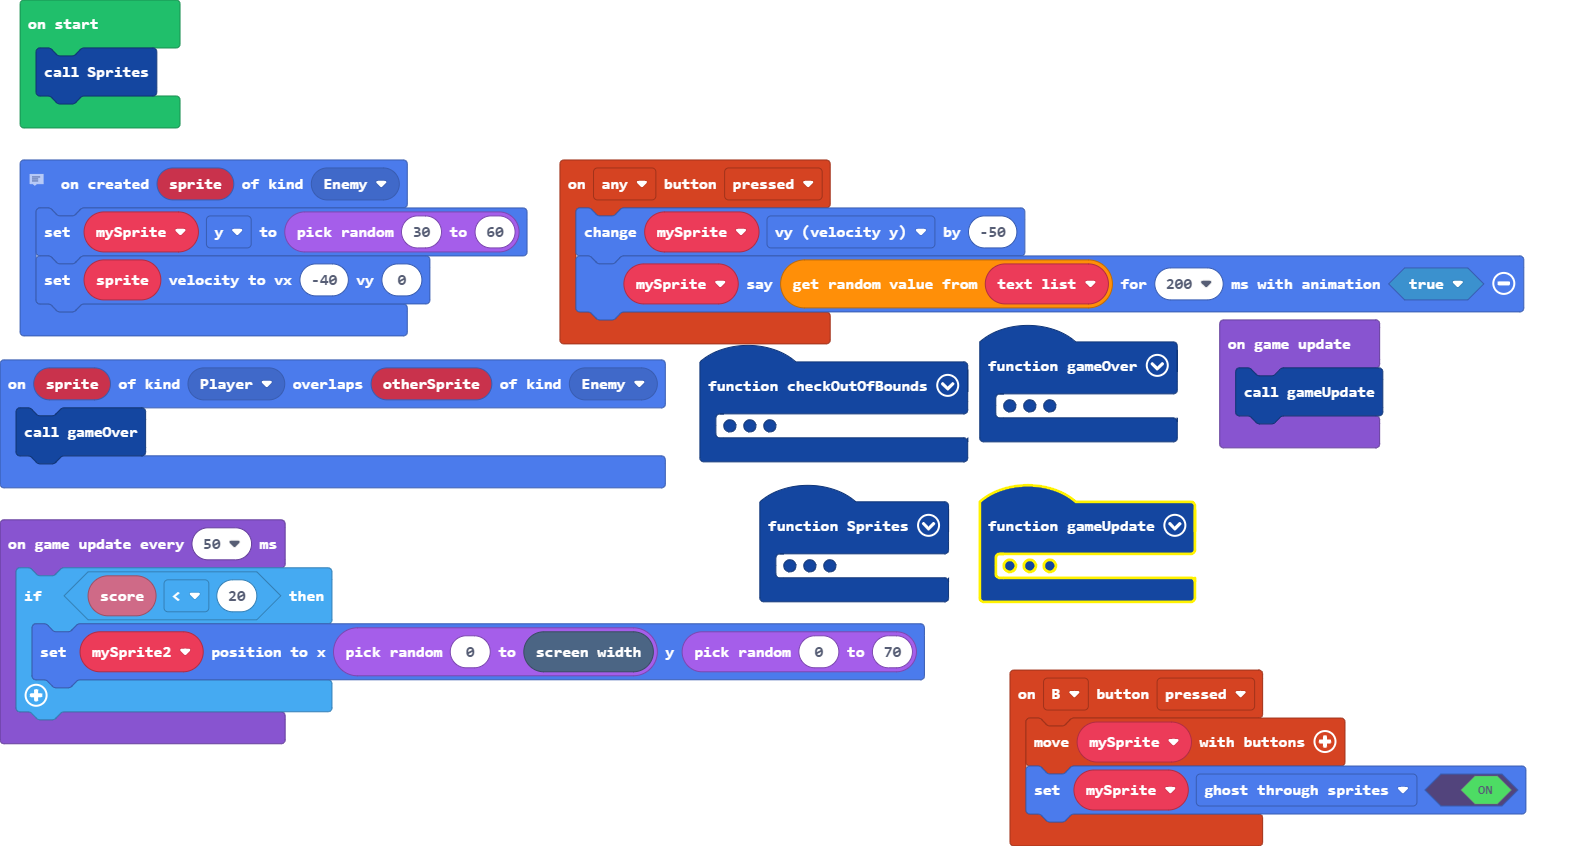
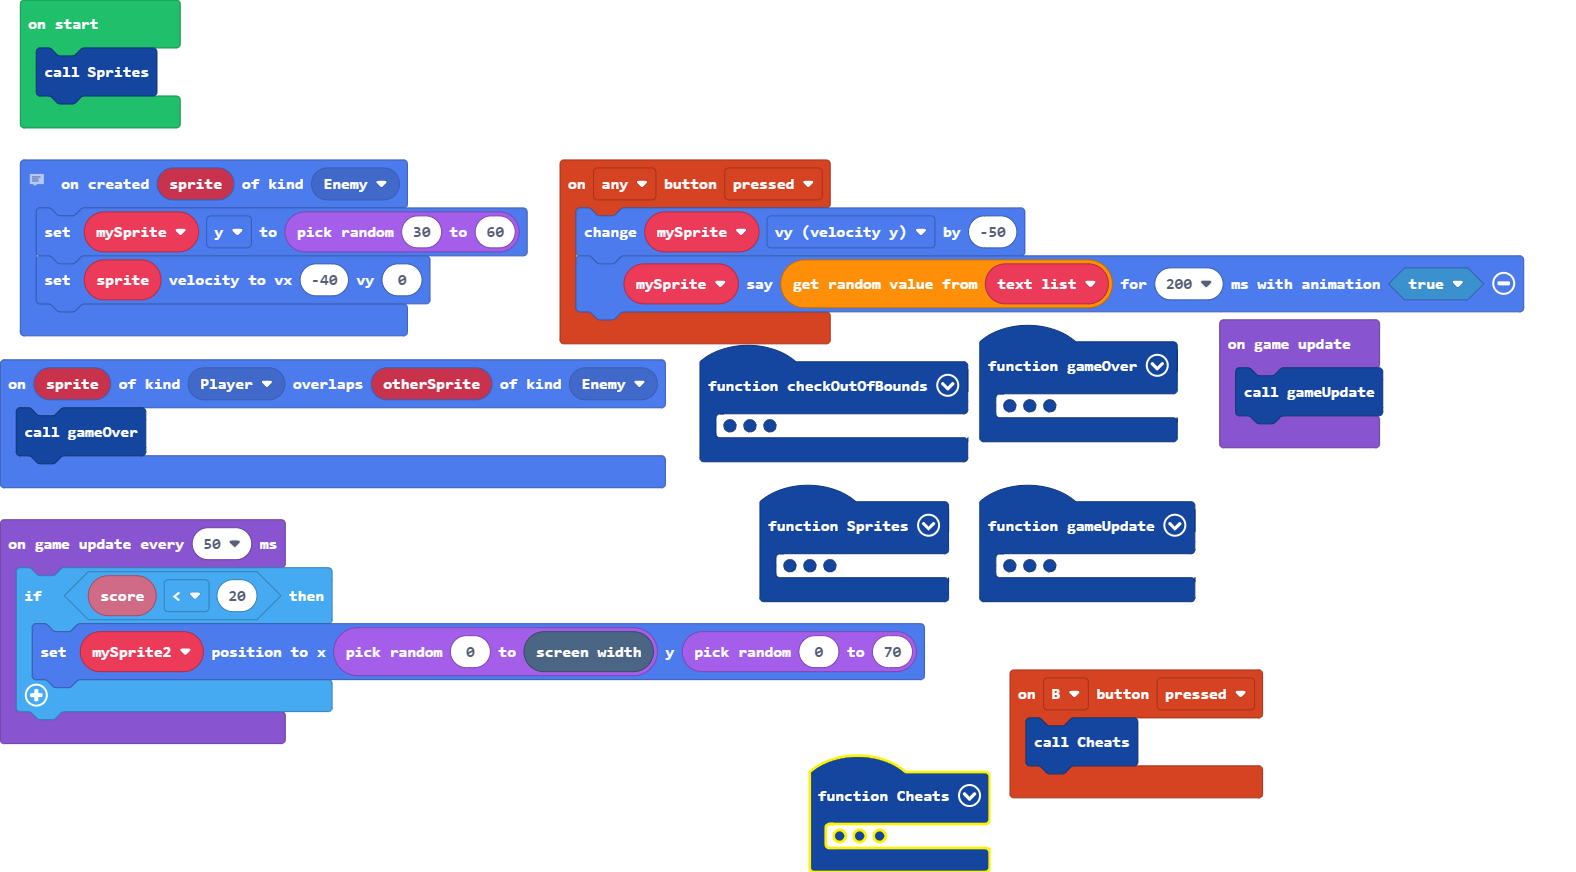
Update main.blocks, main.ts

Changed region(s): [[0.0, 0.1844, 0.9638, 0.8913], [0.4975, 0.7683, 0.9949, 1.0], [0.0, 0.0307, 0.1244, 0.1537]]

diff --git a/main.ts b/main.ts
@@ -42,9 +42,12 @@ sprites.onCreated(SpriteKind.Enemy, function (sprite) {
     mySprite.y = randint(30, 60)
     sprite.setVelocity(-40, 0)
 })
-controller.B.onEvent(ControllerButtonEvent.Pressed, function () {
+function Cheats () {
     controller.moveSprite(mySprite)
     mySprite.setFlag(SpriteFlag.GhostThroughSprites, true)
+}
+controller.B.onEvent(ControllerButtonEvent.Pressed, function () {
+    Cheats()
 })
 controller.anyButton.onEvent(ControllerButtonEvent.Pressed, function () {
     mySprite.vy += -50
